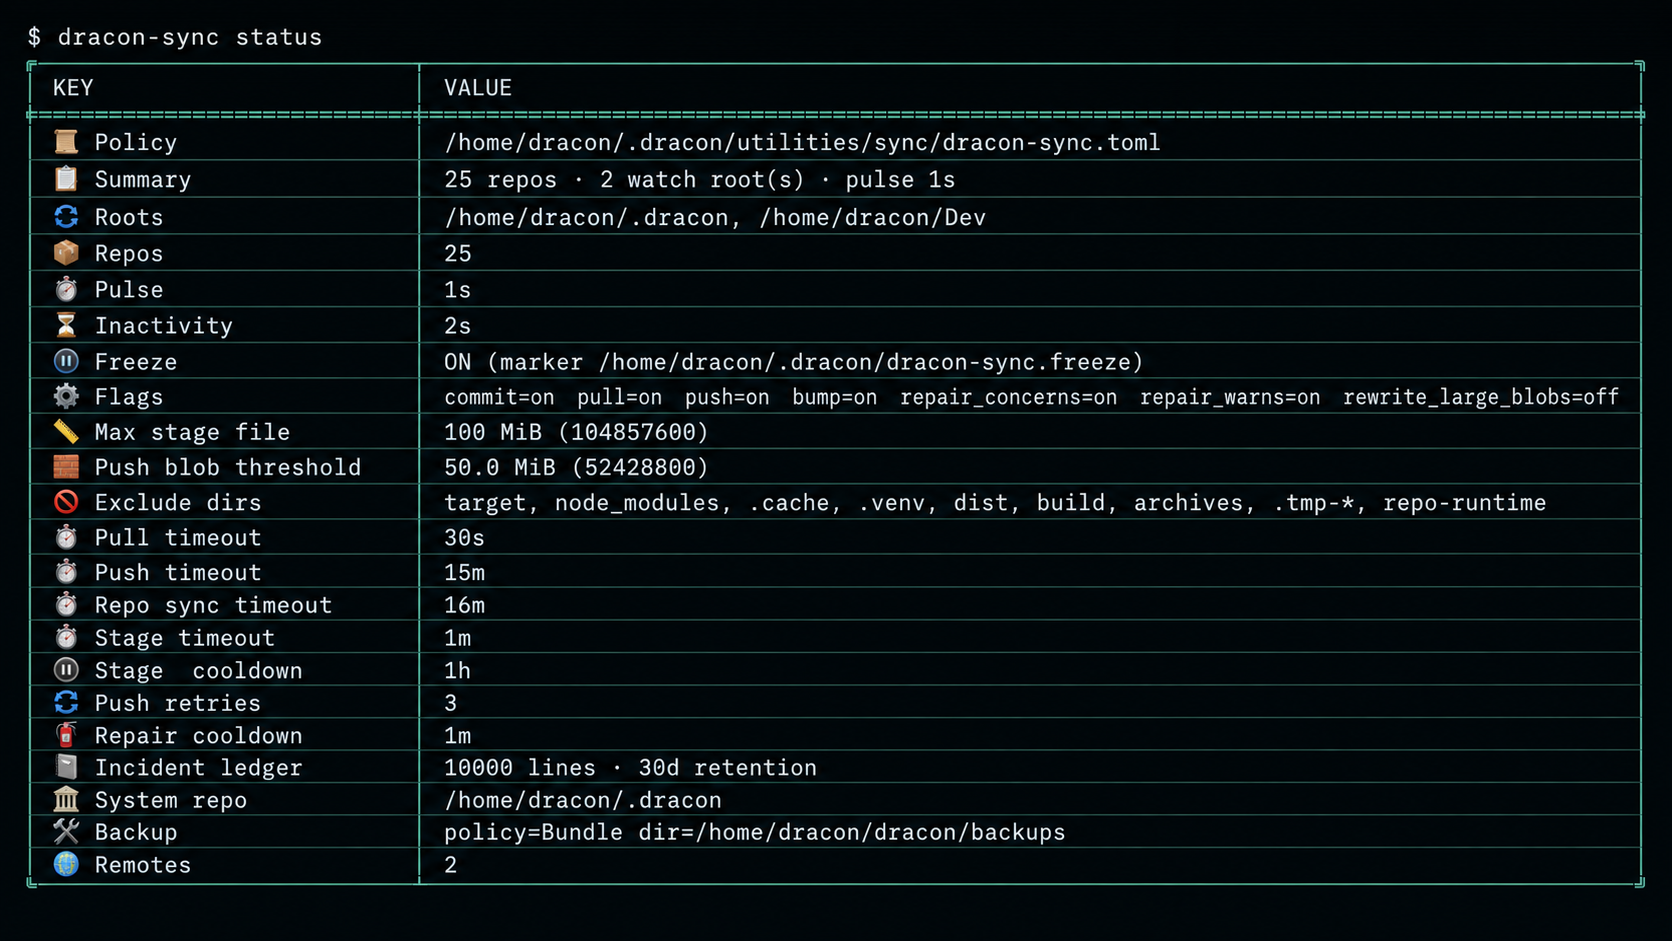
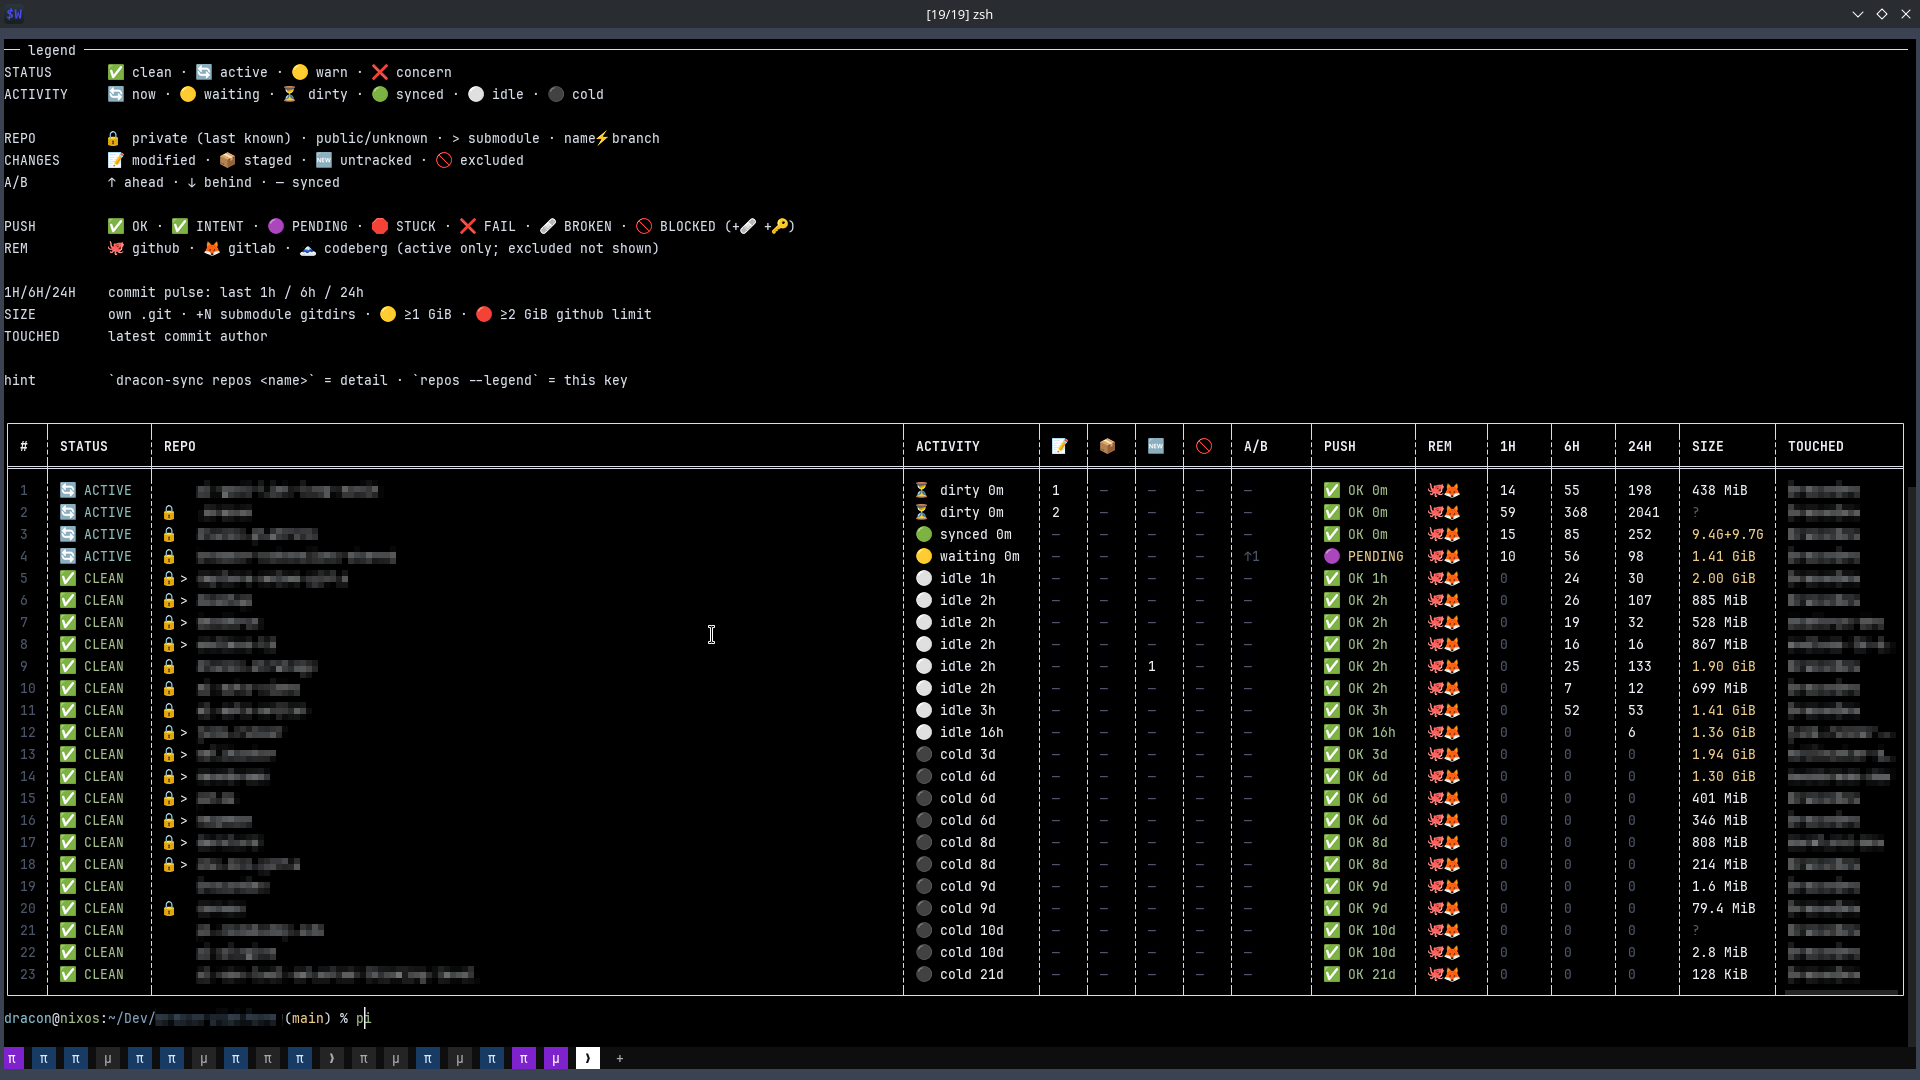
swap README hero screenshots for sync repos table and warden commands

Changed region(s): [[0.0, 0.0, 1.0, 1.0], [0.5909, 0.3082, 0.6531, 0.339]]

diff --git a/dracon-warden/README.md b/dracon-warden/README.md
@@ -2,7 +2,7 @@
 
 **Git filter + repo hardening tool.** Secret, encrypt, age, git-filter — repository hardening and smudge/clean encryption. Encrypts secrets at rest in git while keeping plaintext in your working tree. Uses git hooks (not a daemon) as the primary enforcement layer.
 
-![`dracon-warden status` output](https://raw.githubusercontent.com/DraconDev/dracon-utilities/main/dracon-warden/docs/status-output.png)
+![`dracon-warden` commands](https://raw.githubusercontent.com/DraconDev/dracon-utilities/main/dracon-warden/docs/status-output.png)
 
 This page is the user guide for `dracon-warden` (also rendered on
 crates.io). The canonical source is the `dracon-warden/` directory of the

diff --git a/dracon-sync/README.md b/dracon-sync/README.md
@@ -2,7 +2,7 @@
 
 **Invisible git sync for development.** An auto-commit, multi-mirror daemon that watches your repos, commits every change with deterministic, facts-based messages, and pushes to GitHub, GitLab, and Codeberg simultaneously.
 
-![`dracon-sync status` output](https://raw.githubusercontent.com/DraconDev/dracon-utilities/main/dracon-sync/docs/status-output.png)
+![`dracon-sync repos` output](https://raw.githubusercontent.com/DraconDev/dracon-utilities/main/dracon-sync/docs/status-output.png)
 
 This page is the user guide for `dracon-sync` (also rendered on
 crates.io). The canonical source is the `dracon-sync/` directory of the
